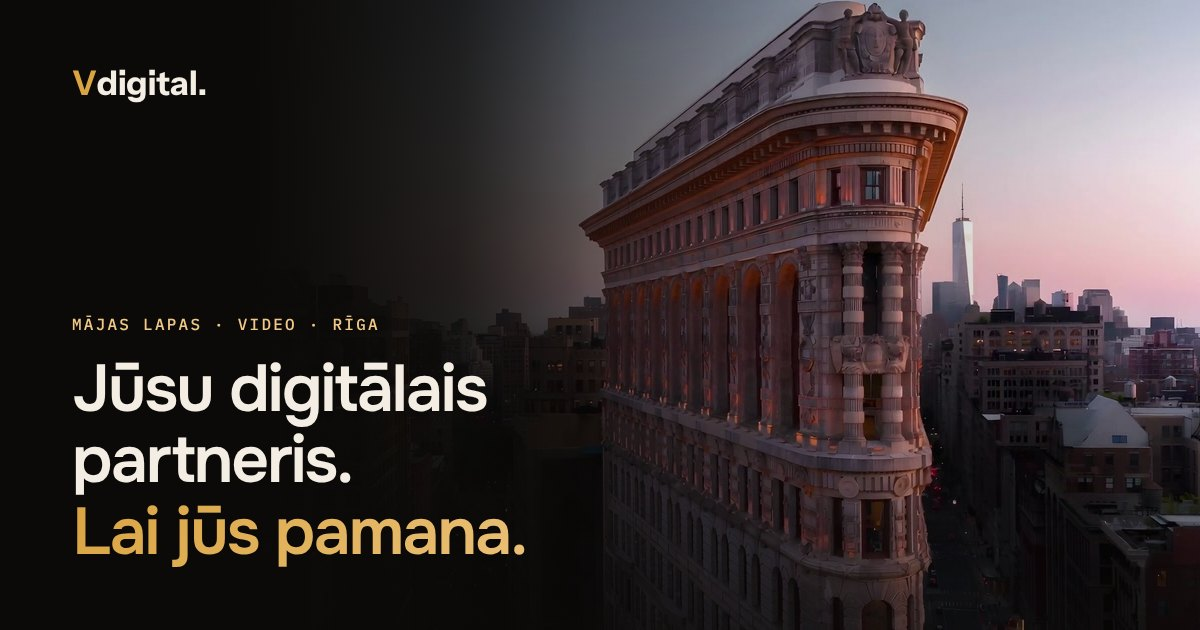
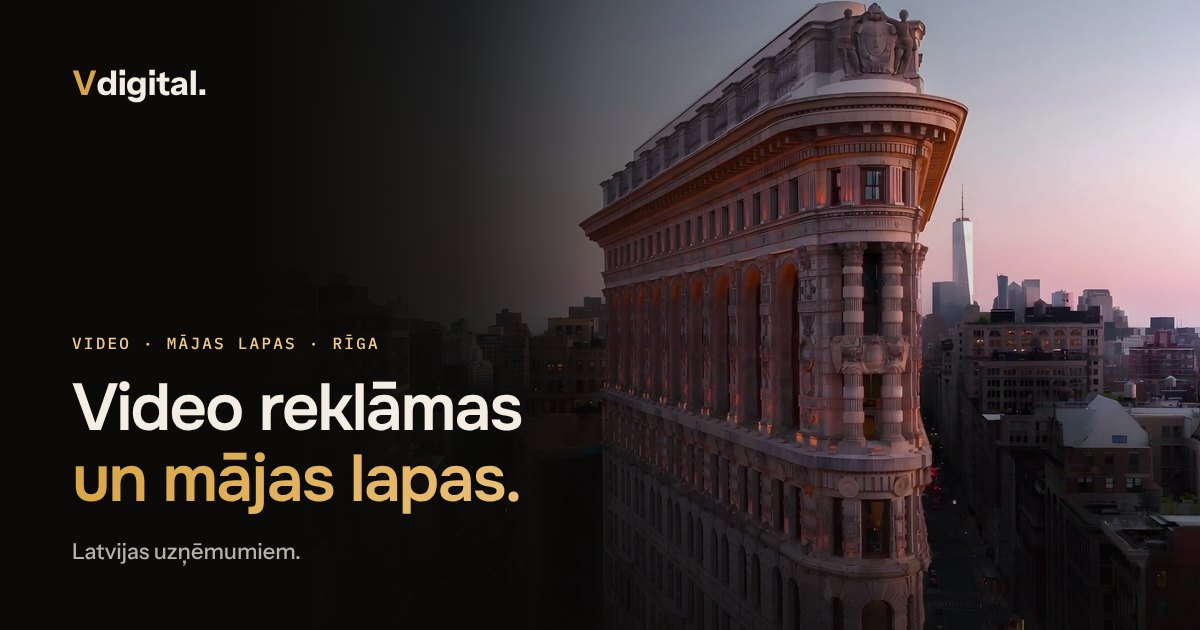
Link preview: match the site's new headline 'Video reklāmas un mājas lapas.'
Share card, og/twitter title and text now use the hero's own words; search description back to main's.

Claude-Session: https://claude.ai/code/session_01G7VjD1ekBaGWscE3bgMaWf

Changed region(s): [[0.0617, 0.4825, 0.4317, 0.9048]]

diff --git a/index.html b/index.html
@@ -5,7 +5,7 @@
   <meta name="viewport" content="width=device-width, initial-scale=1.0" />
 
   <title>Vdigital — video reklāmas un mājas lapas, Rīga</title>
-  <meta name="description" content="Digitālais partneris, kas palīdz jūsu uzņēmumam izskatīties labāk un piesaistīt vairāk klientu: mājas lapas un īsi video reklāmas." />
+  <meta name="description" content="Vdigital veido mājas lapas un video reklāmas Latvijas uzņēmumiem. Dizains, ātra ielāde, SEO un īsi video Reels, TikTok un YouTube." />
   <meta name="keywords" content="mājas lapas izstrāde, web dizains Latvija, mājas lapa uzņēmumam, SEO Latvija, web aģentūra Rīga, interneta vietnes izstrāde, e-komercija Latvija" />
   <meta name="author" content="Vdigital" />
   <meta name="robots" content="index, follow" />
@@ -24,19 +24,19 @@
 
   <meta property="og:type"        content="website" />
   <meta property="og:url"         content="https://vdigital.lv/" />
-  <meta property="og:title"       content="Vdigital — jūsu digitālais partneris" />
-  <meta property="og:description" content="Digitālais partneris, kas palīdz jūsu uzņēmumam izskatīties labāk un piesaistīt vairāk klientu: mājas lapas un īsi video reklāmas." />
+  <meta property="og:title"       content="Vdigital — video reklāmas un mājas lapas, Rīga" />
+  <meta property="og:description" content="Video reklāmas un mājas lapas Latvijas uzņēmumiem. Instagram, TikTok, YouTube un jūsu mājas lapai." />
   <meta property="og:image"       content="https://vdigital.lv/assets/og-partner.jpg" />
   <meta property="og:image:type"  content="image/jpeg" />
   <meta property="og:image:width"  content="1200" />
   <meta property="og:image:height" content="630" />
-  <meta property="og:image:alt"   content="Vdigital — jūsu digitālais partneris. Lai jūs pamana." />
+  <meta property="og:image:alt"   content="Vdigital — video reklāmas un mājas lapas Latvijas uzņēmumiem" />
   <meta property="og:locale"      content="lv_LV" />
   <meta property="og:site_name"   content="Vdigital" />
 
   <meta name="twitter:card"        content="summary_large_image" />
-  <meta name="twitter:title"       content="Vdigital — jūsu digitālais partneris" />
-  <meta name="twitter:description" content="Digitālais partneris, kas palīdz jūsu uzņēmumam izskatīties labāk un piesaistīt vairāk klientu: mājas lapas un īsi video reklāmas." />
+  <meta name="twitter:title"       content="Vdigital — video reklāmas un mājas lapas, Rīga" />
+  <meta name="twitter:description" content="Video reklāmas un mājas lapas Latvijas uzņēmumiem. Instagram, TikTok, YouTube un jūsu mājas lapai." />
   <meta name="twitter:image"       content="https://vdigital.lv/assets/og-partner.jpg" />
 
   <script type="application/ld+json">
